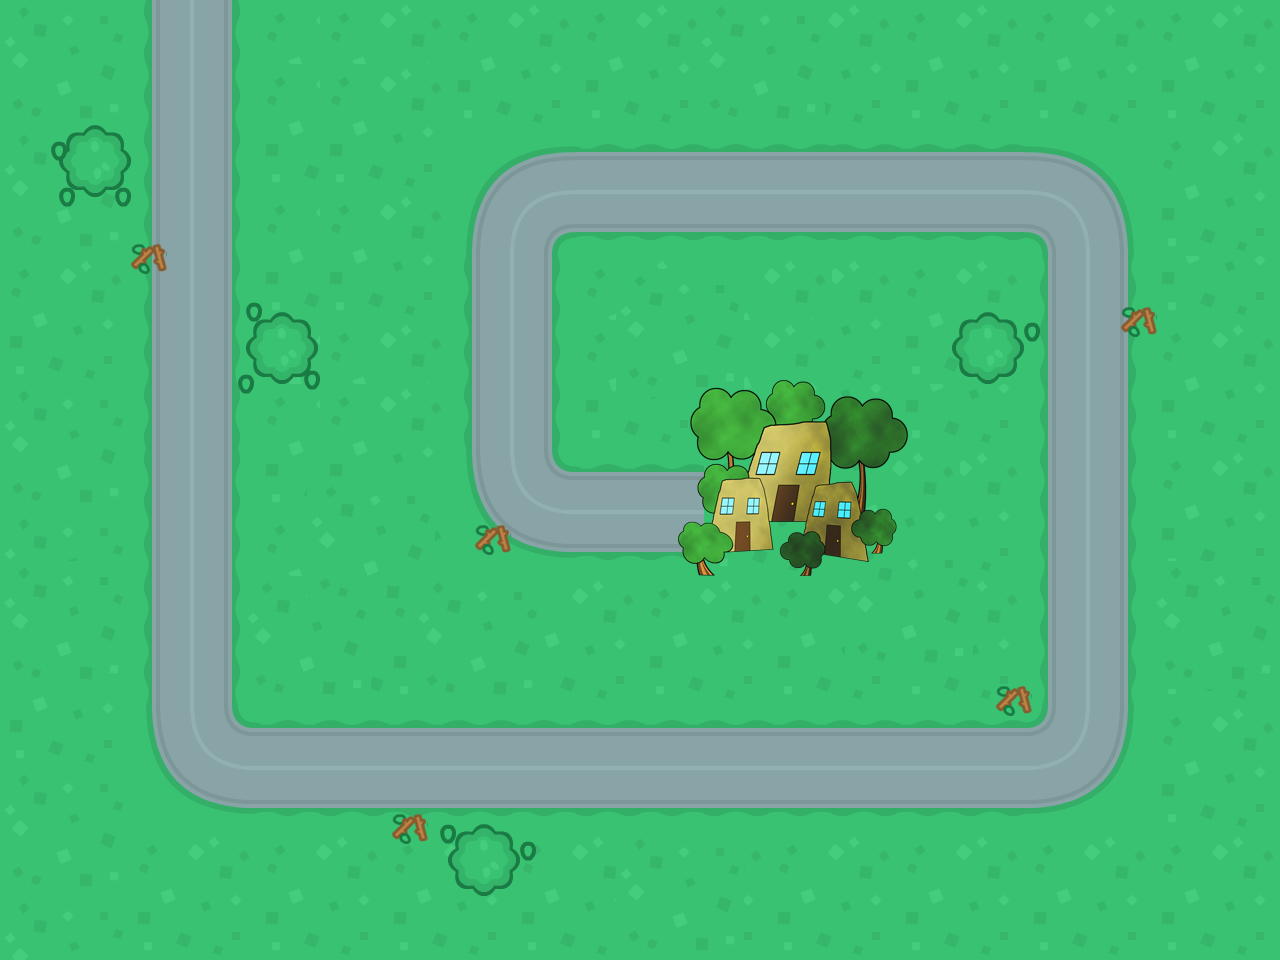
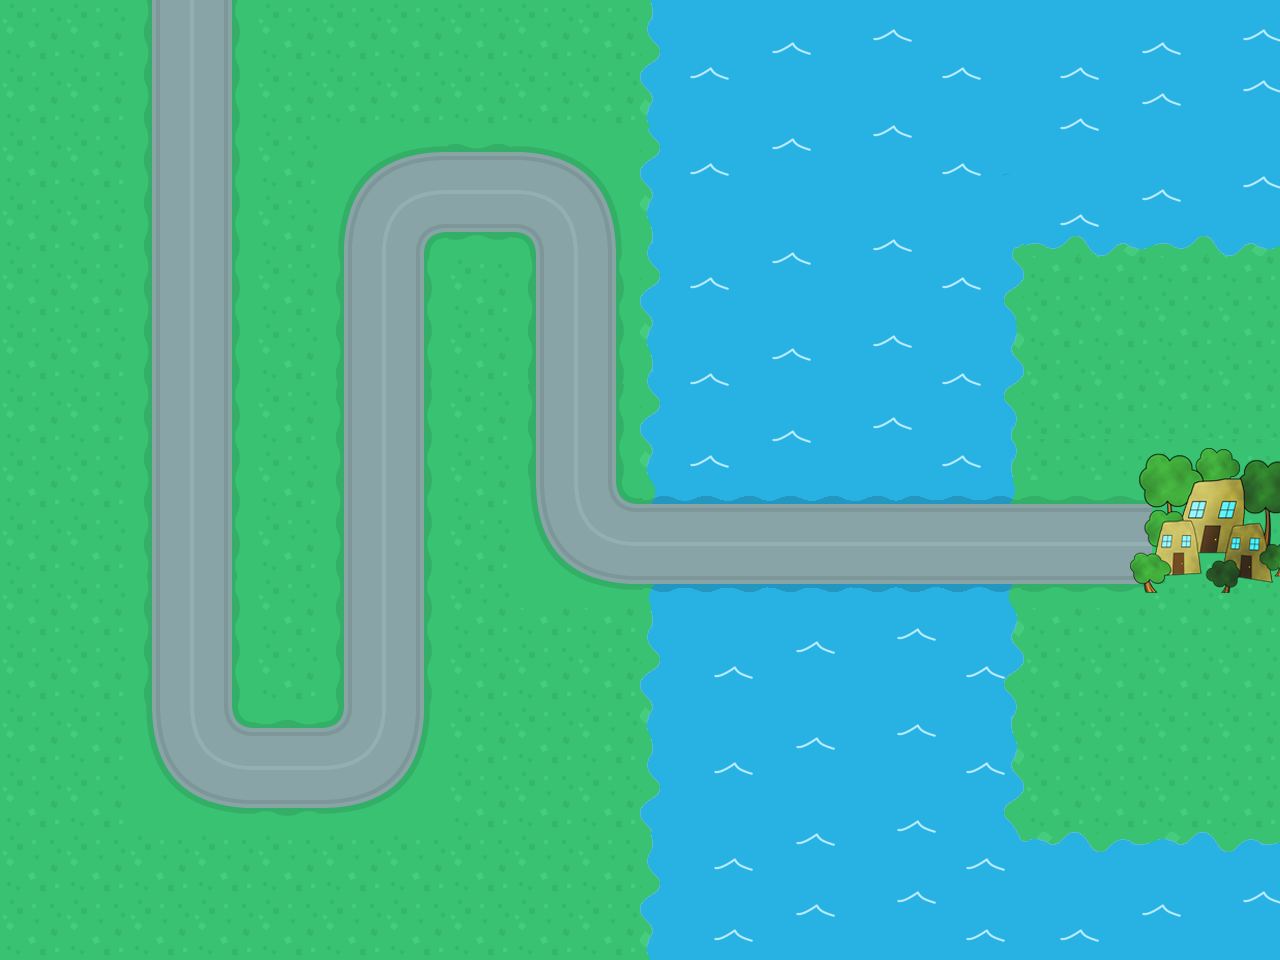
Bætti við þriðja mappinu

diff --git a/mapGrid.js b/mapGrid.js
@@ -12,7 +12,7 @@
 */
 
 // Array with multiple mapGrids, one for each lvl.
-var g_mapGrids = [generateMapGrid1(), generateMapGrid2()];
+var g_mapGrids = [generateMapGrid1(), generateMapGrid2(), generateMapGrid3()];
 
 function generateMapGrid1(){
   var g = [1,1,0,0,1,1,1,1,1,1,1,1,1,1,1,1,1,1,1,1,
@@ -53,20 +53,20 @@ function generateMapGrid2(){
 }
 
 function generateMapGrid3(){
-  var g = [1,1,1,1,1,1,1,1,0,0,1,1,1,1,1,1,1,1,1,1,
-           1,1,1,1,1,1,1,1,0,0,1,1,1,1,1,1,1,1,1,1,
-           1,1,0,0,0,0,0,0,0,0,0,0,0,0,0,0,0,0,1,1,
-           1,1,0,0,0,0,0,0,0,0,0,0,0,0,0,0,0,0,1,1,
-           1,1,0,0,1,1,1,1,0,0,1,1,1,1,1,1,0,0,1,1,
-           1,1,0,0,1,1,0,1,0,0,1,0,0,0,0,0,0,0,1,1,
-           1,1,0,0,1,1,1,1,0,0,1,0,0,0,0,0,0,0,1,1,
-           1,1,0,0,1,1,1,1,0,0,1,0,0,1,1,1,0,0,1,1,
-           1,1,0,0,1,1,1,1,0,0,1,0,0,1,1,1,0,0,1,1,
-           1,1,0,0,1,1,1,1,0,0,1,0,0,0,0,0,0,0,1,1,
-           1,1,0,0,1,1,1,1,0,0,1,0,0,0,0,0,0,0,1,1,
-           1,1,0,0,0,0,0,0,0,0,1,1,1,1,1,1,0,0,1,1,
-           1,1,0,0,0,0,0,0,0,0,1,1,1,0,0,0,0,0,1,1,
-           1,1,1,1,1,1,1,1,1,1,1,0,1,0,0,0,0,0,1,1,
-           1,1,1,1,1,1,1,1,1,1,1,1,1,1,1,1,1,1,1,1,]
+  var g = [1,1,0,0,1,1,1,1,1,1,0,0,0,0,0,0,0,0,0,0,
+           1,1,0,0,1,1,1,1,1,1,0,0,0,0,0,0,0,0,0,0,
+           1,1,0,0,1,0,0,0,0,0,0,0,0,0,0,0,0,0,0,0,
+           1,1,0,0,1,0,0,0,0,0,0,0,0,0,0,0,0,0,0,0,
+           1,1,0,0,1,0,0,1,0,0,0,0,0,0,0,0,1,1,1,1,
+           1,1,0,0,1,0,0,1,0,0,0,0,0,0,0,0,1,1,1,1,
+           1,1,0,0,1,0,0,1,0,0,0,0,0,0,0,0,1,1,1,1,
+           1,1,0,0,1,0,0,1,0,0,0,0,0,0,0,0,1,1,0,0,
+           1,1,0,0,1,0,0,1,0,0,0,0,0,0,0,0,0,0,0,0,
+           1,1,0,0,1,0,0,1,1,1,0,0,0,0,0,0,1,1,1,1,
+           1,1,0,0,1,0,0,1,1,1,0,0,0,0,0,0,1,1,1,1,
+           1,1,0,0,0,0,0,1,1,1,0,0,0,0,0,0,1,1,1,1,
+           1,1,0,0,0,0,0,1,1,1,0,0,0,0,0,0,1,1,1,1,
+           1,1,1,1,1,1,1,1,1,1,0,0,0,0,0,0,1,1,1,1,
+           1,1,1,1,1,1,1,1,1,1,0,0,0,0,0,0,1,1,1,1,]
     return g;
 }

diff --git a/path.js b/path.js
@@ -58,16 +58,12 @@ function generatePath2() {
 // Búa til path fyrir lvl 3
 function generatePath3() {
   var p = [];
-  p.push(new Node(360, 0));
-  p.push(new Node(360, 480));
+  p.push(new Node(120, 0));
   p.push(new Node(120, 480));
-  p.push(new Node(120, 120));
-  p.push(new Node(680, 120));
-  p.push(new Node(680, 240));
-  p.push(new Node(480, 240));
-  p.push(new Node(480, 400));
-  p.push(new Node(680, 400));
-  p.push(new Node(680, 520));
-  p.push(new Node(600, 520));
+  p.push(new Node(240, 480));
+  p.push(new Node(240, 120));
+  p.push(new Node(360, 120));
+  p.push(new Node(360, 340));
+  p.push(new Node(740, 340));
   return p;
 }
